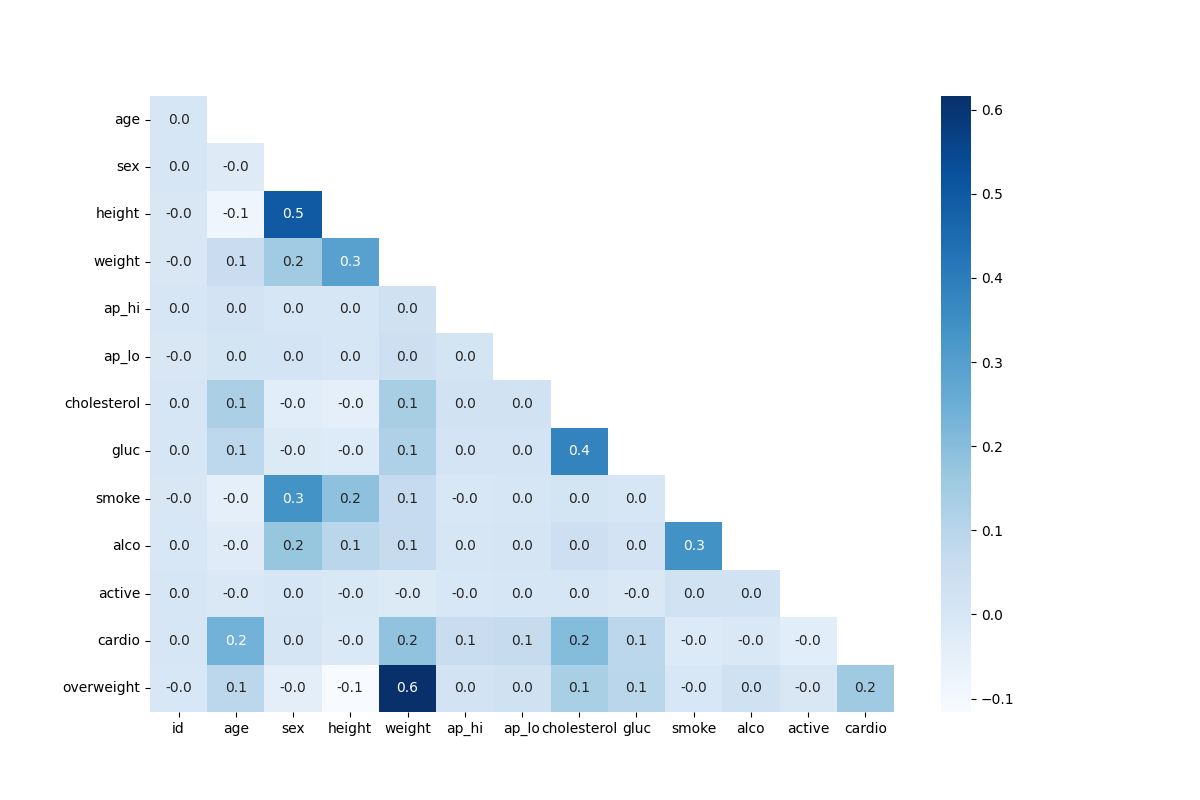
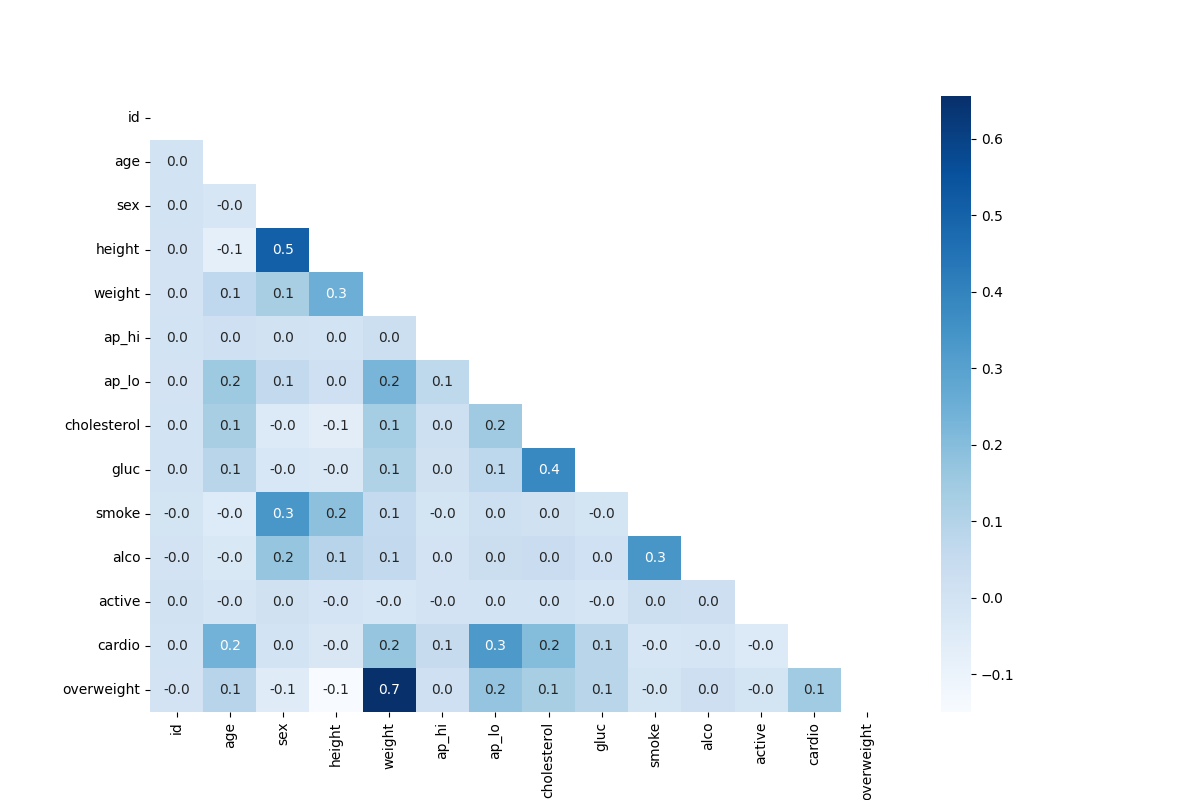
Updated solution

diff --git a/medical_data_visualizer.py b/medical_data_visualizer.py
@@ -18,7 +18,7 @@ df.loc[:,'gluc'] = np.array([0 if n<=1 else 1 for n in df['gluc']])
 # 4
 def draw_cat_plot():
     # 5
-    df_cat = df[['cholesterol','gluc','smoke','alco','active','cardio']]
+    df_cat = df[['active', 'alco', 'cholesterol', 'gluc', 'overweight', 'smoke', 'cardio']]
 
 
     # 6
@@ -31,11 +31,11 @@ def draw_cat_plot():
 
 
     # 8
-    fig = sns.catplot(data=df_long, x='variable', row=None, col='cardio', hue='value', kind='count', color=None, palette=None, legend='auto', legend_out=True,)
-
+    fig = sns.catplot(data=df_long, x='variable', col='cardio', hue='value', kind='count', legend='auto', legend_out=True).set_axis_labels('variable', 'total').fig
 
     # 9
     fig.savefig('catplot.png')
+
     return fig
 
 
@@ -50,13 +50,14 @@ def draw_heat_map():
 
 
     # 12
-    corr = df.corr().loc['age':, :'cardio']
+    corr = df_heat.corr()
+
 
     #Changed from corr = df.loc[:, 'age':].corr().loc['sex':, :'cardio'] to pass freeCodeCamp requirements
     #filtered to exclude like-like correlations (and their associated axis ticks)
 
     # 13
-    mask = np.reshape([False if j<=i else True for i in range(len(corr)) for j in range(len(corr))], (len(corr), len(corr)) )
+    mask = np.reshape([False if j<i else True for i in range(len(corr)) for j in range(len(corr))], (len(corr), len(corr)) )
 
     # 14
     fig, ax = plt.subplots(figsize=(12,8))
